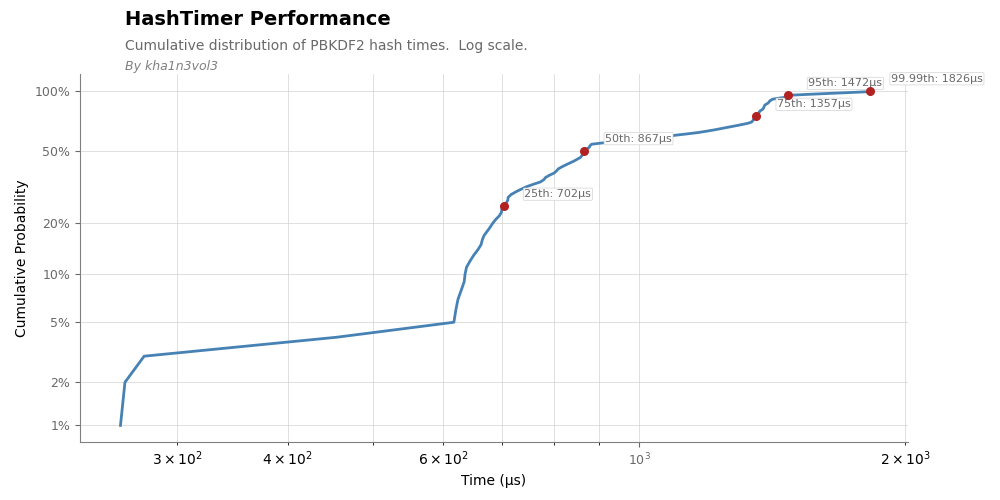
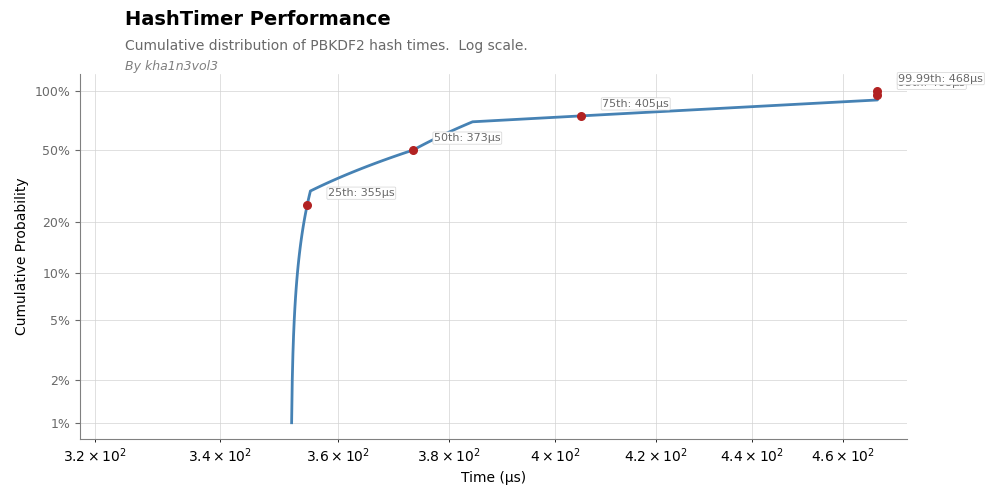
Add chart export option

Changed region(s): [[0.0, 0.15, 0.961, 0.99]]

diff --git a/test_visualize_hashmeter.py b/test_visualize_hashmeter.py
@@ -23,7 +23,25 @@ class VisualizeHashmeterCliTest(unittest.TestCase):
                 visualize_hashmeter.main(["-f", "/tmp/run/hashmeter.json"])
 
         import_tdigest.assert_called_once_with("/tmp/run/hashmeter.json")
-        visualize_tdigest.assert_called_once_with(tdigest, log_scale=True)
+        visualize_tdigest.assert_called_once_with(tdigest, log_scale=True, output_file=None)
+
+    def test_main_saves_selected_output_file(self):
+        tdigest = object()
+
+        with mock.patch.object(visualize_hashmeter, "import_tdigest", return_value=tdigest):
+            with mock.patch.object(visualize_hashmeter, "visualize_tdigest") as visualize_tdigest:
+                visualize_hashmeter.main([
+                    "--file",
+                    "/tmp/run/hashmeter.json",
+                    "--output",
+                    "hashtimer-analysis-chart.png",
+                ])
+
+        visualize_tdigest.assert_called_once_with(
+            tdigest,
+            log_scale=True,
+            output_file="hashtimer-analysis-chart.png",
+        )
 
 
 if __name__ == "__main__":

diff --git a/visualize_hashmeter.py b/visualize_hashmeter.py
@@ -11,6 +11,7 @@ DEFAULT_DATA_FILE = 'data/hashmeter.json'
 def parse_args(argv=None):
     parser = argparse.ArgumentParser(description='Visualize hashmeter T-Digest data.')
     parser.add_argument('-f', '--file', type=str, default=DEFAULT_DATA_FILE, help='Path to the hashmeter data file.')
+    parser.add_argument('-o', '--output', type=str, help='Write the chart to an image file instead of opening a window.')
     return parser.parse_args(argv)
 
 def import_tdigest(filename: str) -> TDigest:
@@ -34,7 +35,8 @@ def import_tdigest(filename: str) -> TDigest:
 def visualize_tdigest(td: TDigest,
                       xlabel: str = "Time (μs)",
                       ylabel: str = "Cumulative Probability",
-                      log_scale: bool = False):
+                      log_scale: bool = False,
+                      output_file: str | None = None):
     """
     Visualizes the TDigest data with a Tufte-inspired style.
     """
@@ -105,7 +107,10 @@ def visualize_tdigest(td: TDigest,
 
     # --- Final Adjustments ---
     plt.tight_layout(rect=[0, 0, 1, 0.95])
-    plt.show()
+    if output_file:
+        plt.savefig(output_file)
+    else:
+        plt.show()
 
 def main(argv=None):
     args = parse_args(argv)
@@ -113,7 +118,7 @@ def main(argv=None):
     try:
         td = import_tdigest(args.file)
         # visualize_tdigest(td) # Linear
-        visualize_tdigest(td, log_scale=True)  # Log scale
+        visualize_tdigest(td, log_scale=True, output_file=args.output)  # Log scale
     except (FileNotFoundError, ValueError) as e:
         print(f"Error: {e}")
     except Exception as e:

diff --git a/README.md b/README.md
@@ -187,8 +187,13 @@ The **`visualize_hashmeter.py`** script reads T-Digest data from the `hashmeter.
    ```bash
    python visualize_hashmeter.py --file /tmp/hashtimer-data/hashmeter.json
    ```
+   To regenerate the tracked README chart image, write the chart with `-o` or `--output`:
+   ```bash
+   python visualize_hashmeter.py --file data/hashmeter.json --output hashtimer-analysis-chart.png
+   ```
    - By default, it uses a **log scale** on the x-axis.  
    - By default, it reads `data/hashmeter.json`.  
+   - Without `--output`, it opens an interactive matplotlib window.
    - You can toggle between log-scale and linear-scale in the script by editing the call to `visualize_tdigest(td, log_scale=True)` or `visualize_tdigest(td, log_scale=False)`.
 
 ### Components of the Chart